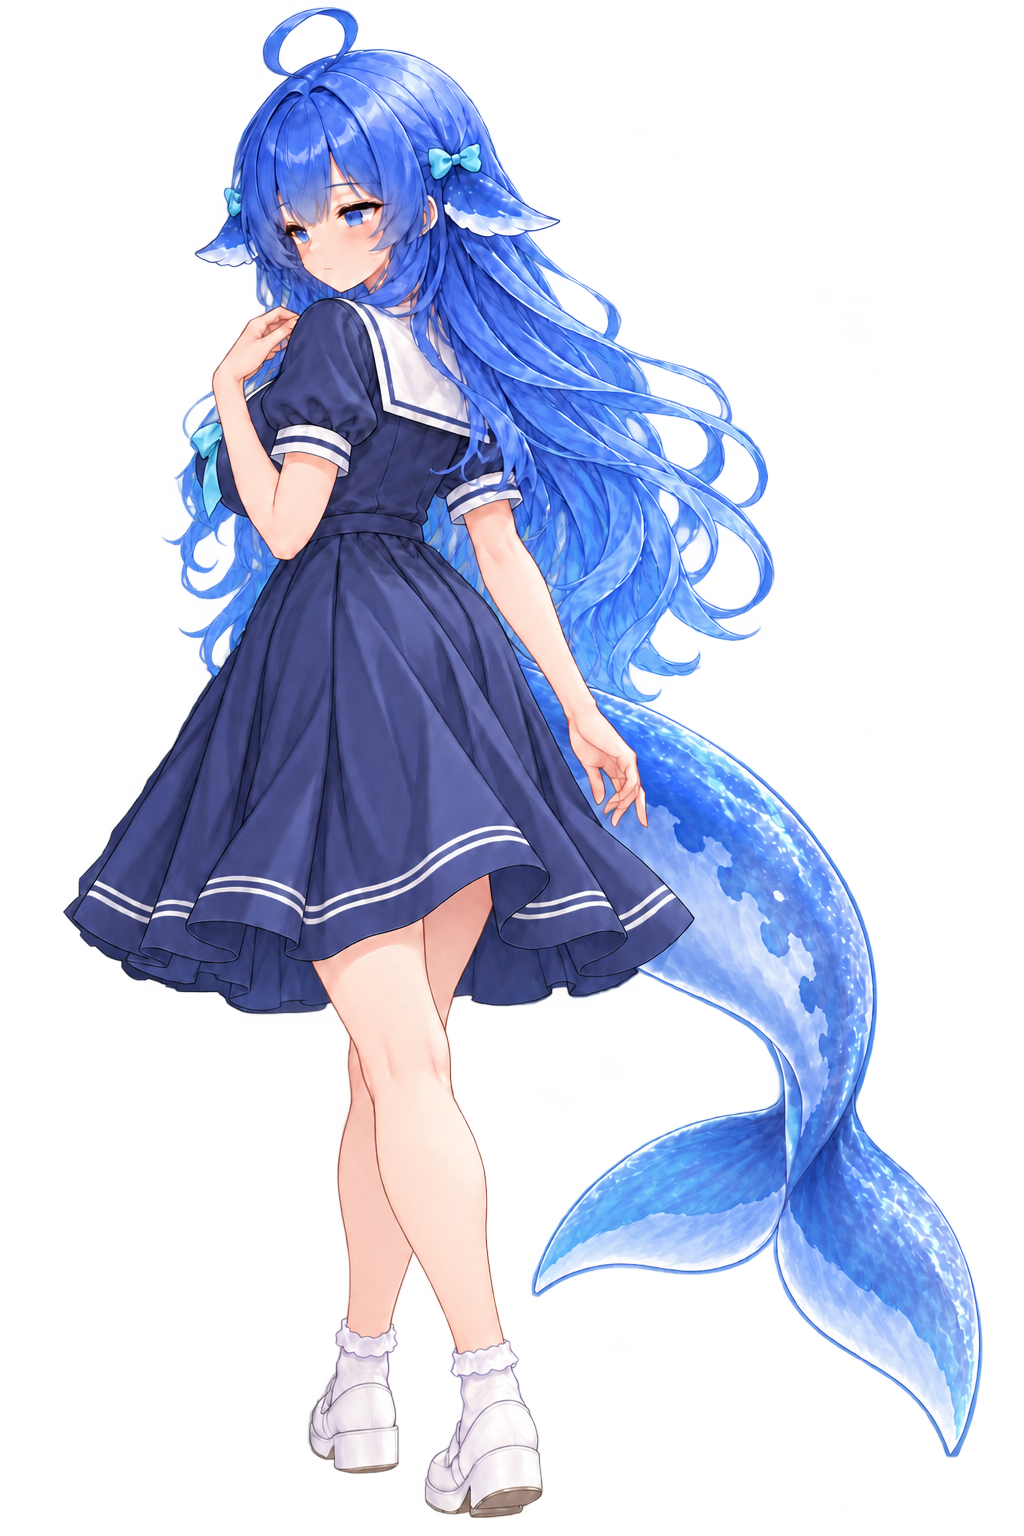
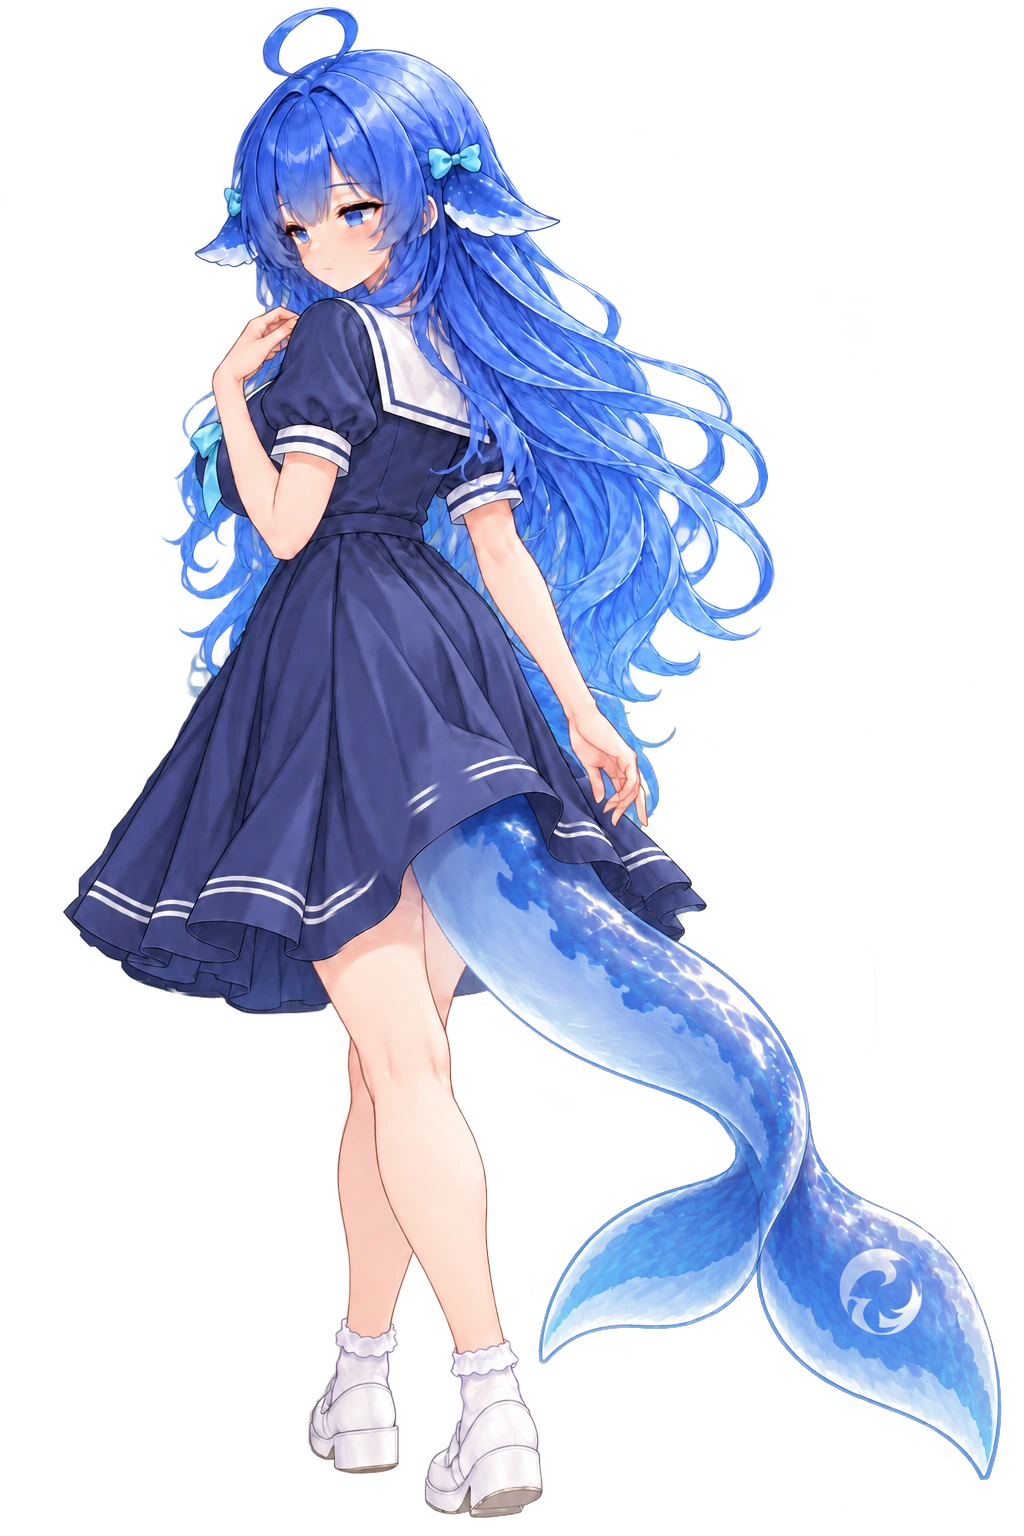
art: L12 背身尾巴改为 C05 式（从裙摆下钻出，裙边盖住尾根）

diff --git a/docs/collab/work-ledger/playtest-ledger-20261018.md b/docs/collab/work-ledger/playtest-ledger-20261018.md
@@ -78,3 +78,5 @@
 - 仍保留的 45–60 秒段：开场 E7、c2m4 T3、第三话末 E7 日记、E4 夕阳等待、晚饭 E5、浅滩夜 T4、终章两段——都是一整场戏，未改。
 - 13:56 返工：sunburst 版头发不干净（用户）。改为以用户原 L11 为底，仅在 y≥700、x≥600 且非皮肤/裙子的区域合成新尾巴，头发与人物逐像素保留原稿（fix5/L11_tailonly.png）。
 - 14:18 配音 #032 i99npm13「那是水流！海流懂不懂！」换成用户给的「新B 笑着嫌弃」版，原件存 docs/collab/playtest/。
+
+- 10-18 14:38 L12 背身尾巴改为 C05 式：尾巴从后摆下钻出、裙边压住尾根（旧L12+C05 同传 gpt-image-2.5，用户选第1版），上半身保留原稿。
